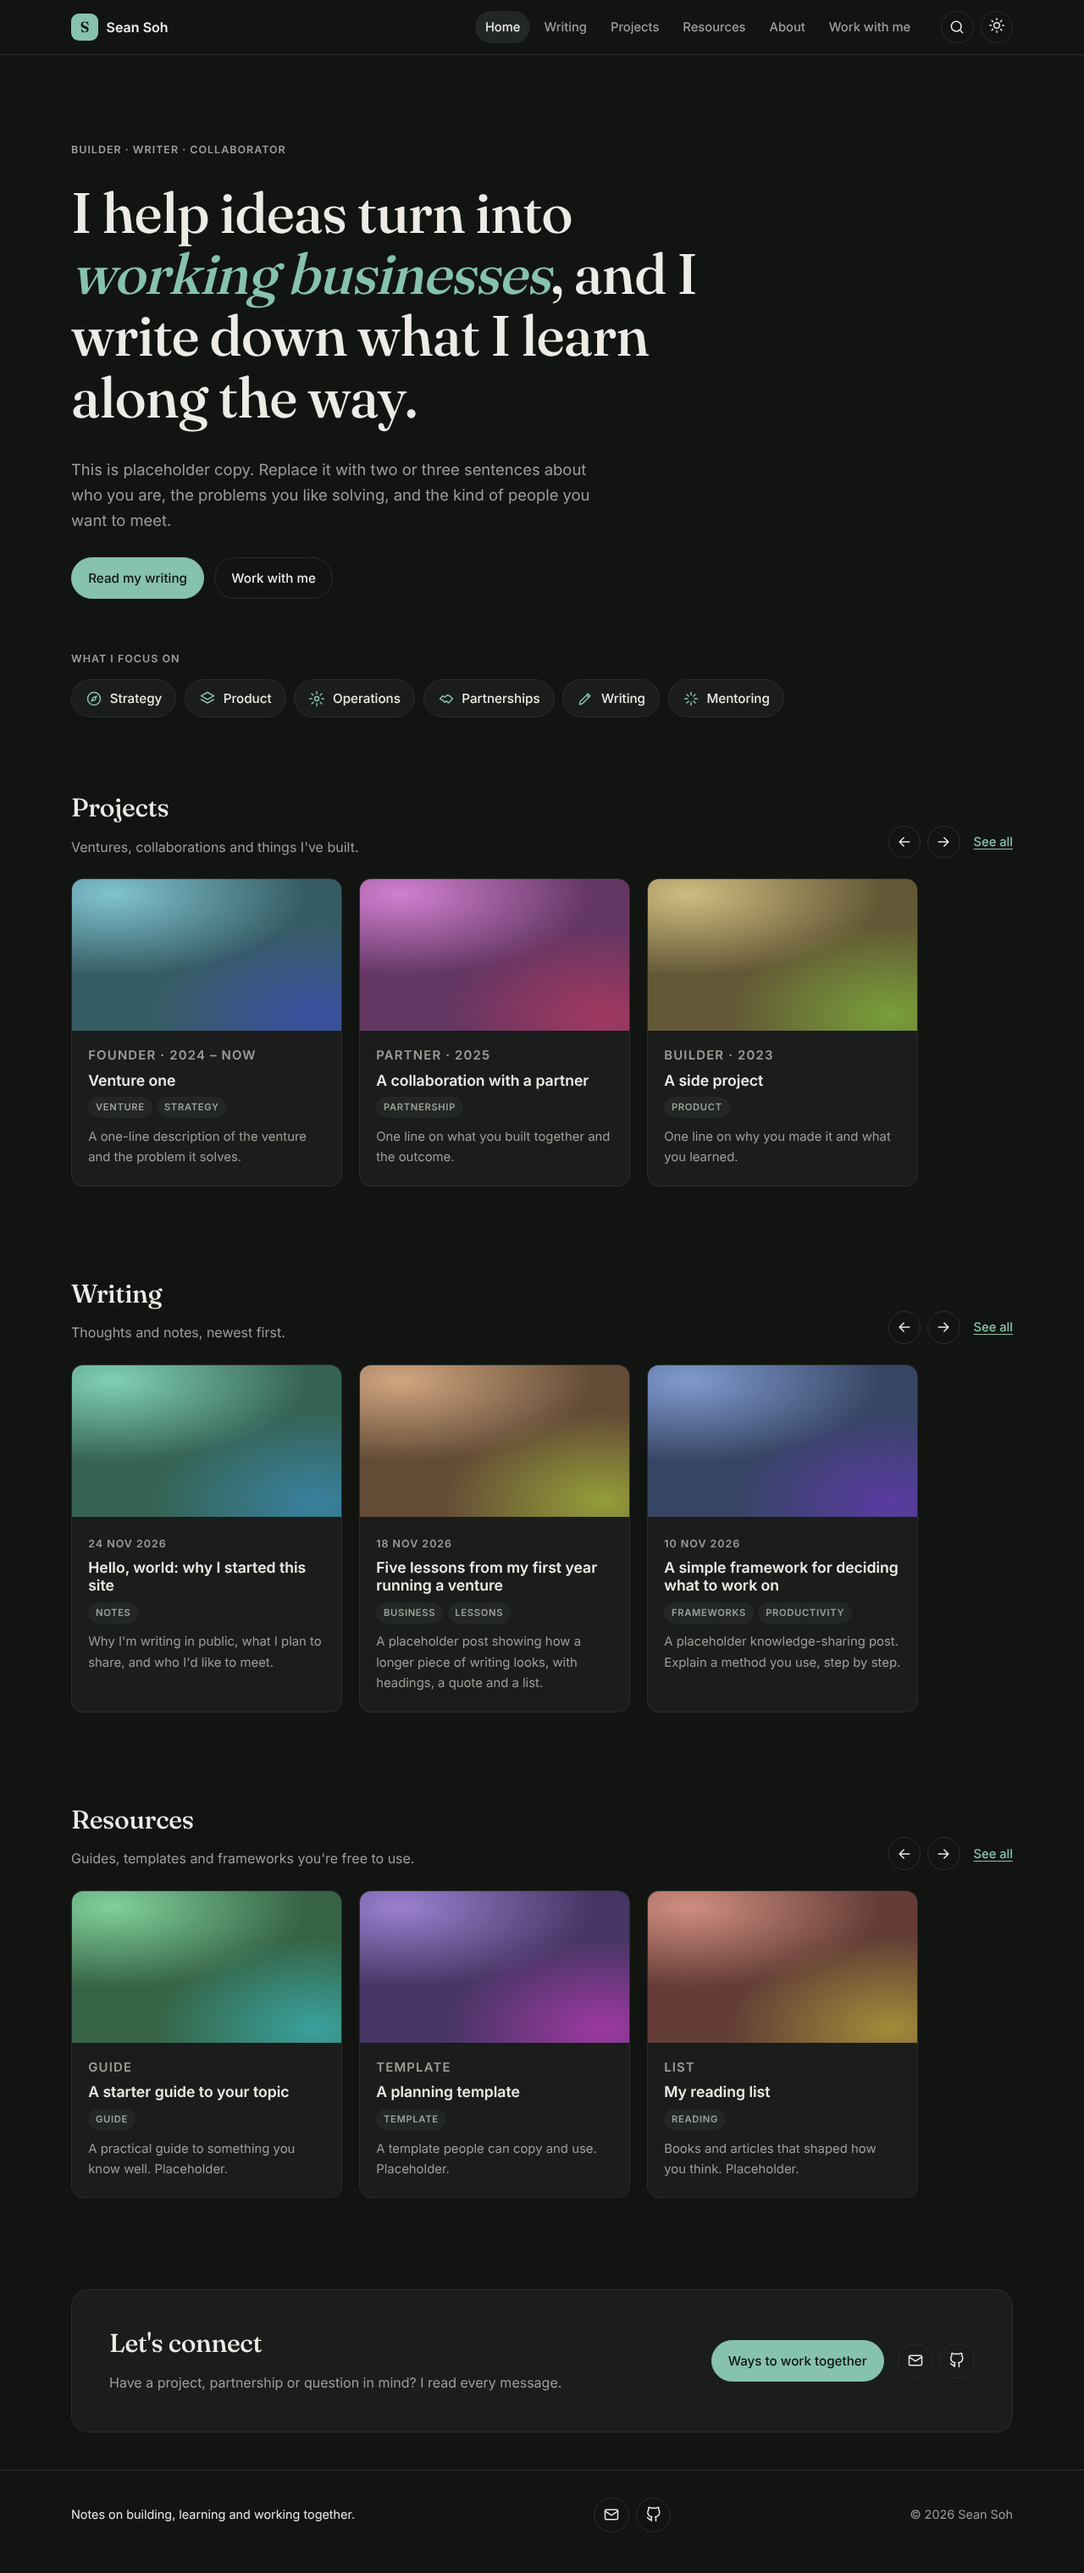
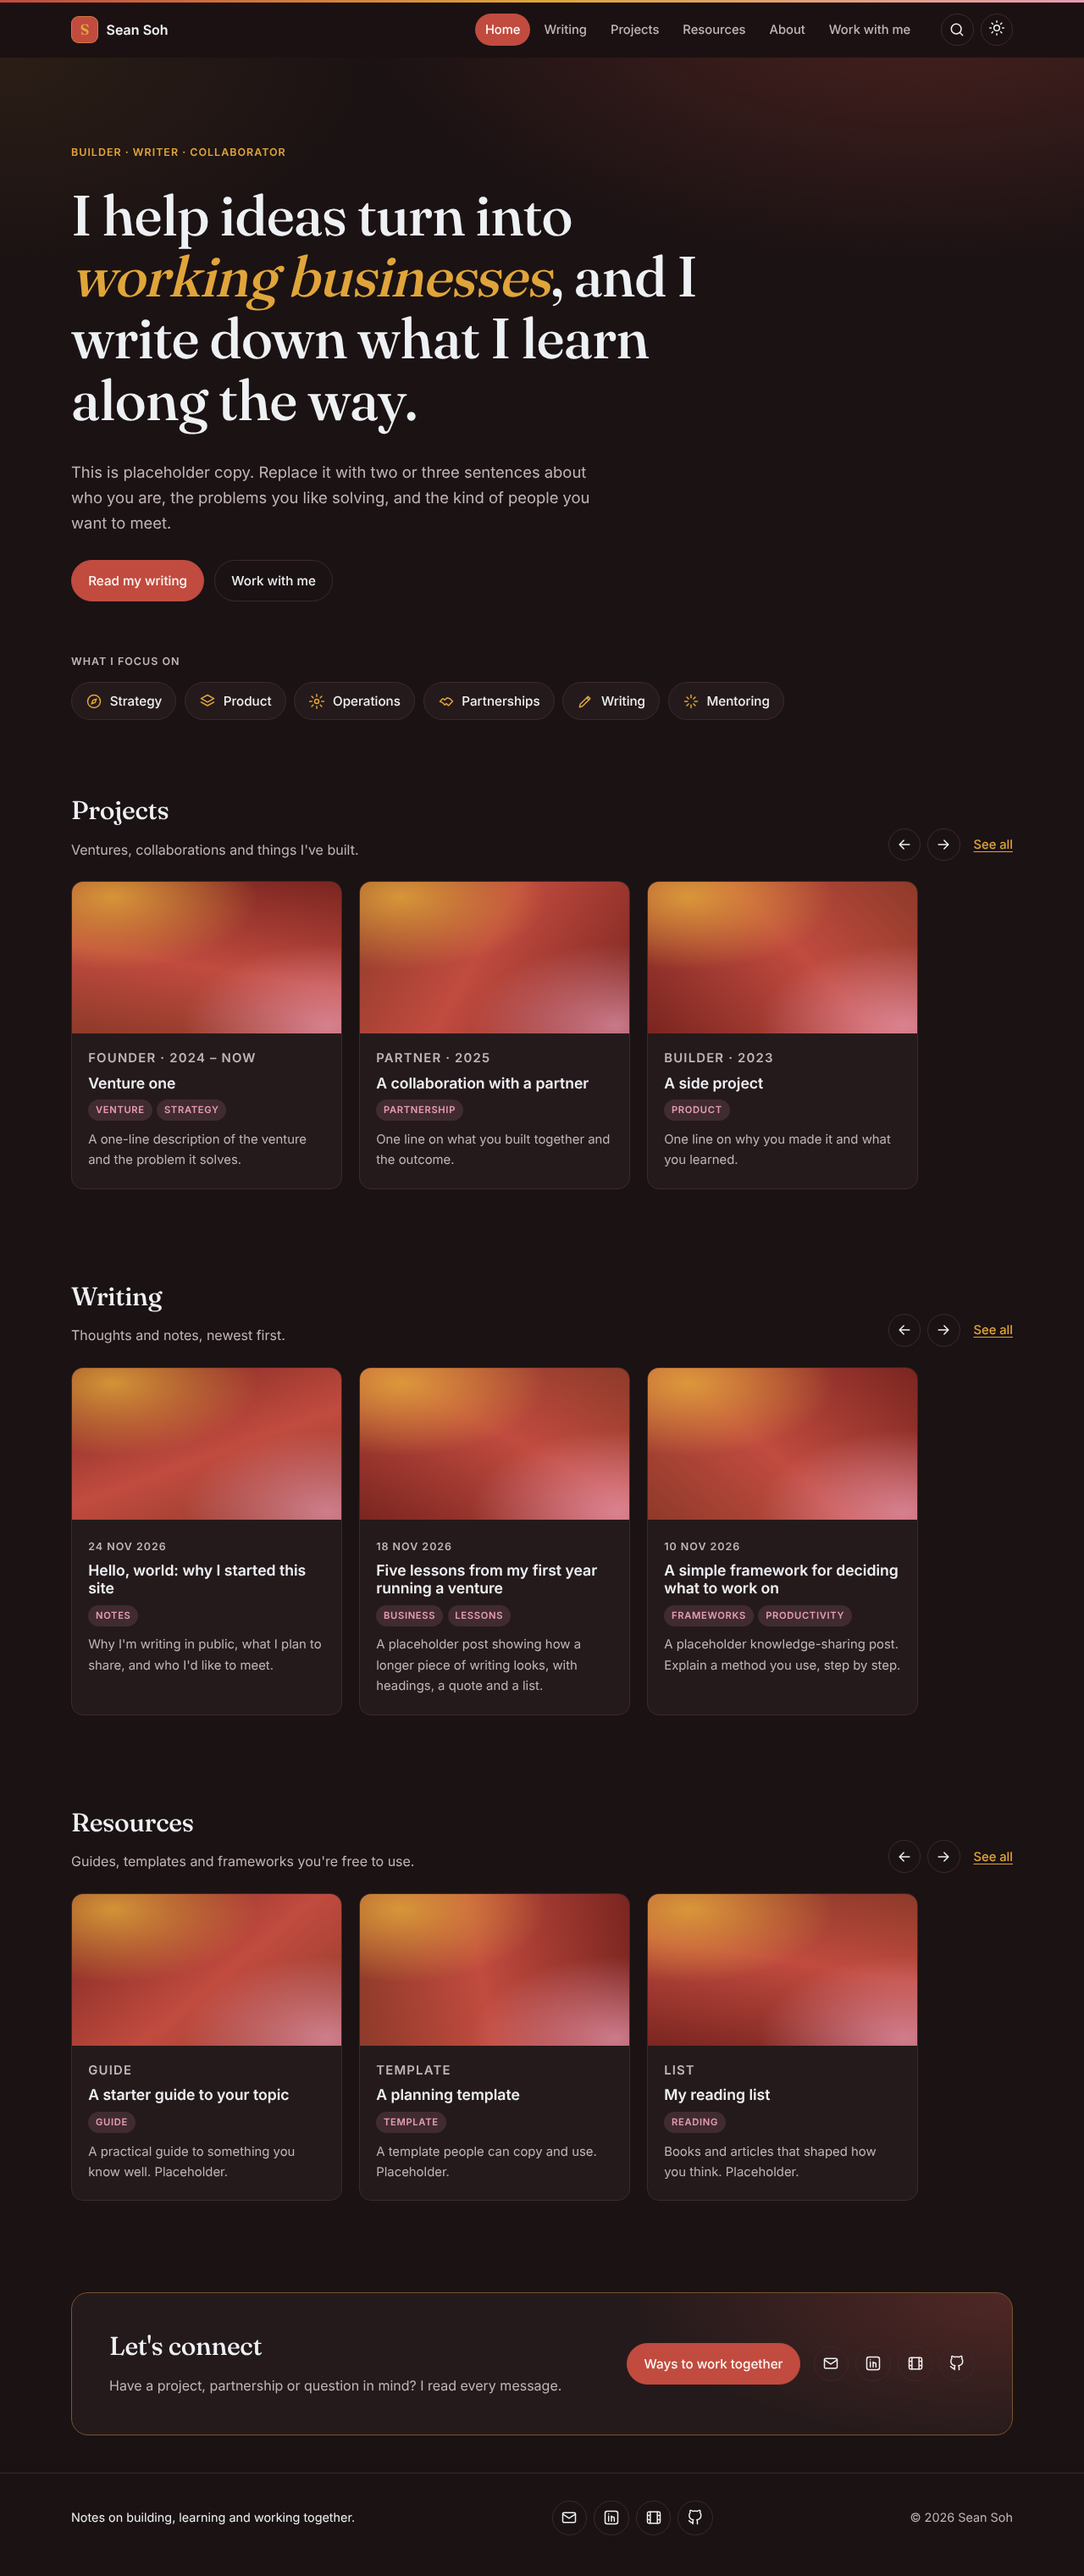
Restyle with red, gold, soft pink and pearl palette on a warm dark theme
Claude-Session: https://claude.ai/code/session_019aZhk6nqUmGebBMtB7amnR

diff --git a/assets/style.css b/assets/style.css
@@ -3,37 +3,50 @@
    Colors and sizes live in the tokens below. Change them here first.
    ========================================================================== */
 
+/* Palette: Red (lucky, primary), Gold (support), Soft Pink (identity),
+   Pearl White (main text). Backgrounds are a warm red-black, not flat black. */
 :root {
-  --bg: #fbfaf7;
-  --surface: #ffffff;
-  --text: #1b1c1a;
-  --muted: #676863;
-  --accent: #2f5d50;
-  --accent-text: #fbfaf7;
-  --border: #e4e2dc;
-  --chip: #efede7;
-  --shadow: 0 1px 2px rgb(0 0 0 / .04), 0 8px 24px rgb(0 0 0 / .06);
+  --red: #c14b3f;
+  --gold: #e0a53a;
+  --pink: #e79bb4;
+  --pearl: #eef1f4;
+
+  --bg: #1b1213;
+  --surface: #251a1b;
+  --text: var(--pearl);
+  --muted: #c2b5b6;
+  --accent: var(--red);          /* buttons, active states, brand */
+  --accent-text: #fff8f3;
+  --link: var(--gold);           /* links, icons, highlights */
+  --highlight: var(--pink);      /* tags, small identity touches */
+  --border: #3b2a2b;
+  --chip: #312324;
+  --glow: rgb(193 75 63 / .28);
+  --shadow: 0 1px 2px rgb(0 0 0 / .3), 0 10px 30px rgb(0 0 0 / .35);
+
   --max: 72rem;
   --narrow: 44rem;
   --gutter: 1.25rem;
   --radius: 14px;
   --font-body: "Inter", system-ui, -apple-system, "Segoe UI", sans-serif;
   --font-display: "Fraunces", Georgia, "Times New Roman", serif;
-  color-scheme: light;
-}
-@media (prefers-color-scheme: dark) {
-  :root:not([data-theme="light"]) {
-    --bg: #121412; --surface: #1a1d1b; --text: #ecebe6; --muted: #9d9e98;
-    --accent: #86c2ae; --accent-text: #0f1211; --border: #2a2e2b; --chip: #232724;
-    --shadow: 0 1px 2px rgb(0 0 0 / .3), 0 8px 24px rgb(0 0 0 / .25);
-    color-scheme: dark;
-  }
-}
-:root[data-theme="dark"] {
-  --bg: #121412; --surface: #1a1d1b; --text: #ecebe6; --muted: #9d9e98;
-  --accent: #86c2ae; --accent-text: #0f1211; --border: #2a2e2b; --chip: #232724;
-  --shadow: 0 1px 2px rgb(0 0 0 / .3), 0 8px 24px rgb(0 0 0 / .25);
   color-scheme: dark;
+}
+/* Optional light version, only when the visitor picks it with the toggle. */
+:root[data-theme="light"] {
+  --bg: #faf6f2;
+  --surface: #ffffff;
+  --text: #2a1a1b;
+  --muted: #6e5d5e;
+  --accent: #b3402f;
+  --accent-text: #fff8f3;
+  --link: #a3361f;
+  --highlight: #a8466c;
+  --border: #ecdcd6;
+  --chip: #f6e9e4;
+  --glow: rgb(224 165 58 / .22);
+  --shadow: 0 1px 2px rgb(0 0 0 / .04), 0 8px 24px rgb(90 30 20 / .08);
+  color-scheme: light;
 }
 
 /* Base ------------------------------------------------------------------ */
@@ -45,7 +58,7 @@ body {
   -webkit-font-smoothing: antialiased;
 }
 img { max-width: 100%; display: block; }
-a { color: var(--accent); text-underline-offset: .2em; }
+a { color: var(--link); text-underline-offset: .2em; }
 h1, h2, h3 { line-height: 1.2; margin: 0 0 .5em; font-weight: 600; }
 h1, h2, .display { font-family: var(--font-display); font-weight: 500; letter-spacing: -.01em; }
 h2 { font-size: clamp(1.5rem, 1.2rem + 1vw, 1.9rem); }
@@ -56,20 +69,17 @@ p { margin: 0 0 1em; }
 .narrow { max-width: var(--narrow); }
 .skip { position: absolute; left: -999px; }
 .skip:focus { left: 1rem; top: 1rem; z-index: 100; background: var(--surface); padding: .5rem 1rem; }
-:focus-visible { outline: 2px solid var(--accent); outline-offset: 2px; border-radius: 4px; }
-.only-dark { display: none; }
-[data-theme="dark"] .only-dark { display: inline; }
-[data-theme="dark"] .only-light { display: none; }
-@media (prefers-color-scheme: dark) {
-  :root:not([data-theme="light"]) .only-dark { display: inline; }
-  :root:not([data-theme="light"]) .only-light { display: none; }
-}
+:focus-visible { outline: 2px solid var(--link); outline-offset: 2px; border-radius: 4px; }
+.only-light { display: none; }
+[data-theme="light"] .only-light { display: inline; }
+[data-theme="light"] .only-dark { display: none; }
 
 .eyebrow, .label, .meta {
   font-size: .78rem; font-weight: 600; text-transform: uppercase; letter-spacing: .08em; color: var(--muted);
 }
 .eyebrow a { color: inherit; text-decoration: none; }
-.eyebrow a:hover { color: var(--accent); }
+.eyebrow a:hover { color: var(--link); }
+.hero .eyebrow { color: var(--link); }
 .lede { font-size: 1.15rem; color: var(--muted); max-width: 40rem; }
 
 /* Buttons --------------------------------------------------------------- */
@@ -81,12 +91,12 @@ p { margin: 0 0 1em; }
 }
 .button:hover { opacity: .88; }
 .button.ghost { background: transparent; color: var(--text); border-color: var(--border); }
-.button.ghost:hover { border-color: var(--text); opacity: 1; }
+.button.ghost:hover { border-color: var(--link); color: var(--link); opacity: 1; }
 .icon-btn {
   display: inline-grid; place-items: center; width: 2.4rem; height: 2.4rem; padding: 0;
   border: 1px solid var(--border); border-radius: 999px; background: transparent; color: var(--text); cursor: pointer;
 }
-.icon-btn:hover { border-color: var(--text); }
+.icon-btn:hover { border-color: var(--link); color: var(--link); }
 .icon { flex: none; }
 
 /* Header ---------------------------------------------------------------- */
@@ -95,19 +105,22 @@ p { margin: 0 0 1em; }
   background: color-mix(in srgb, var(--bg) 85%, transparent);
   backdrop-filter: saturate(1.4) blur(12px); -webkit-backdrop-filter: saturate(1.4) blur(12px);
   border-bottom: 1px solid var(--border);
+  border-top: 3px solid transparent;
+  border-image: linear-gradient(90deg, var(--red), var(--gold), var(--pink)) 1 0 0 0;
 }
 .header-inner { display: flex; align-items: center; gap: 1.5rem; height: 4rem; }
 .brand { display: flex; align-items: center; gap: .6rem; color: var(--text); text-decoration: none; font-weight: 600; }
 .brand-mark {
   display: grid; place-items: center; width: 2rem; height: 2rem; border-radius: 9px;
-  background: var(--accent); color: var(--accent-text); font-family: var(--font-display); font-size: 1.1rem;
+  background: var(--accent); color: var(--gold); font-family: var(--font-display); font-size: 1.1rem;
+  box-shadow: inset 0 0 0 1px rgb(224 165 58 / .5);
 }
 .site-nav { display: flex; gap: .25rem; margin-left: auto; }
 .site-nav a {
   padding: .4rem .75rem; border-radius: 999px; color: var(--muted); text-decoration: none; font-size: .92rem; font-weight: 500;
 }
-.site-nav a:hover { color: var(--text); }
-.site-nav a[aria-current="page"] { color: var(--text); background: var(--chip); }
+.site-nav a:hover { color: var(--link); }
+.site-nav a[aria-current="page"] { color: var(--accent-text); background: var(--accent); }
 .header-tools { display: flex; gap: .5rem; }
 .nav-toggle { display: none; }
 
@@ -123,9 +136,14 @@ p { margin: 0 0 1em; }
 }
 
 /* Hero ------------------------------------------------------------------ */
-.hero { padding: clamp(3.5rem, 8vw, 7rem) 0 clamp(2.5rem, 5vw, 4rem); }
+.hero {
+  padding: clamp(3.5rem, 8vw, 7rem) 0 clamp(2.5rem, 5vw, 4rem);
+  background:
+    radial-gradient(60rem 28rem at 85% -10%, var(--glow), transparent 70%),
+    radial-gradient(40rem 22rem at 0% 0%, rgb(224 165 58 / .08), transparent 70%);
+}
 .display { font-size: clamp(2.2rem, 1.4rem + 3.6vw, 4.2rem); line-height: 1.08; max-width: 18ch; margin: .4em 0 .5em; }
-.display em { font-style: italic; color: var(--accent); }
+.display em { font-style: italic; color: var(--link); }
 .actions { display: flex; flex-wrap: wrap; gap: .75rem; margin-top: 1.75rem; }
 
 /* Sections -------------------------------------------------------------- */
@@ -142,7 +160,7 @@ p { margin: 0 0 1em; }
   display: flex; align-items: center; gap: .55rem; padding: .55rem 1rem;
   border: 1px solid var(--border); border-radius: 999px; background: var(--surface); font-weight: 500; font-size: .95rem;
 }
-.focus-list .icon { color: var(--accent); }
+.focus-list .icon { color: var(--link); }
 
 /* Card rails (horizontal scroll with snap) ------------------------------ */
 .rail {
@@ -158,7 +176,7 @@ p { margin: 0 0 1em; }
   background: var(--surface); border: 1px solid var(--border); border-radius: var(--radius);
   overflow: hidden; transition: transform .2s, box-shadow .2s;
 }
-.card:hover { transform: translateY(-3px); box-shadow: var(--shadow); }
+.card:hover { transform: translateY(-3px); box-shadow: var(--shadow); border-color: color-mix(in srgb, var(--gold) 45%, var(--border)); }
 .card-link { display: flex; flex-direction: column; height: 100%; color: inherit; text-decoration: none; }
 .card-body { padding: 1.1rem 1.2rem 1.3rem; }
 .card-body h3 { margin: .35rem 0 .6rem; font-size: 1.1rem; }
@@ -167,18 +185,20 @@ p { margin: 0 0 1em; }
 
 .cover { aspect-ratio: 16 / 9; background: var(--chip); overflow: hidden; border-radius: 0; }
 .cover img { width: 100%; height: 100%; object-fit: cover; }
+/* Generated covers mix the palette; `hue` in front matter (0-360) rotates the blend. */
 .cover-gen {
   background:
-    radial-gradient(120% 90% at 15% 10%, hsl(var(--hue) 55% 70% / .9), transparent 60%),
-    radial-gradient(100% 100% at 90% 90%, hsl(calc(var(--hue) + 40) 50% 45% / .85), transparent 60%),
-    hsl(var(--hue) 30% 30%);
+    radial-gradient(90% 80% at 15% 10%, rgb(224 165 58 / .85), transparent 60%),
+    radial-gradient(90% 90% at 95% 95%, rgb(231 155 180 / .7), transparent 60%),
+    linear-gradient(calc(var(--hue) * 1deg), #7a2520, var(--red) 55%, #8e3a2a);
 }
 .page > .cover { border-radius: var(--radius); margin: 0 0 2rem; }
 
 .tags { list-style: none; display: flex; flex-wrap: wrap; gap: .35rem; margin: 0; padding: 0; }
 .tags li, .tags a {
   font-size: .7rem; font-weight: 600; text-transform: uppercase; letter-spacing: .06em;
-  padding: .2rem .55rem; border-radius: 999px; background: var(--chip); color: var(--muted); text-decoration: none;
+  padding: .2rem .55rem; border-radius: 999px; text-decoration: none;
+  background: color-mix(in srgb, var(--highlight) 14%, transparent); color: var(--highlight);
 }
 .tags li:has(a) { padding: 0; background: none; }
 
@@ -191,7 +211,8 @@ p { margin: 0 0 1em; }
   padding: .4rem .85rem; border-radius: 999px; border: 1px solid var(--border); background: transparent; color: var(--text);
 }
 .chip span { color: var(--muted); margin-left: .2rem; }
-.chip[aria-pressed="true"] { background: var(--text); color: var(--bg); border-color: var(--text); }
+.chip:hover { border-color: var(--link); }
+.chip[aria-pressed="true"] { background: var(--accent); color: var(--accent-text); border-color: var(--accent); }
 .chip[aria-pressed="true"] span { color: inherit; opacity: .7; }
 
 /* Pages and prose ------------------------------------------------------- */
@@ -203,7 +224,7 @@ p { margin: 0 0 1em; }
 .prose h2 { margin-top: 2.2em; }
 .prose h3 { margin-top: 1.6em; }
 .prose blockquote {
-  margin: 1.5em 0; padding: .2em 0 .2em 1.2em; border-left: 3px solid var(--accent);
+  margin: 1.5em 0; padding: .2em 0 .2em 1.2em; border-left: 3px solid var(--red);
   font-family: var(--font-display); font-size: 1.25rem; color: var(--text);
 }
 .prose code { font-size: .9em; background: var(--chip); padding: .1em .35em; border-radius: 5px; }
@@ -216,23 +237,26 @@ p { margin: 0 0 1em; }
 .post-nav .next { text-align: right; margin-left: auto; }
 .post-nav .muted { font-size: .8rem; text-transform: uppercase; letter-spacing: .06em; }
 
-.cta {
-  margin-top: 3.5rem; padding: 2rem; border-radius: var(--radius);
-  background: var(--surface); border: 1px solid var(--border);
+.cta, .connect {
+  background:
+    radial-gradient(40rem 16rem at 100% 0%, var(--glow), transparent 70%),
+    var(--surface);
+  border: 1px solid color-mix(in srgb, var(--gold) 35%, var(--border));
 }
+.cta { margin-top: 3.5rem; padding: 2rem; border-radius: var(--radius); }
 .cta h2 { font-size: 1.5rem; }
 
 .timeline { list-style: none; padding: 0; margin: 1.5rem 0; border-left: 2px solid var(--border); }
 .timeline li { position: relative; padding: 0 0 1.75rem 1.5rem; }
 .timeline li::before {
   content: ""; position: absolute; left: -7px; top: .35rem; width: 12px; height: 12px;
-  border-radius: 50%; background: var(--bg); border: 2px solid var(--accent);
+  border-radius: 50%; background: var(--bg); border: 2px solid var(--link);
 }
 .timeline h3 { margin: .25rem 0 .3rem; }
 .timeline p { color: var(--muted); margin: 0; }
 
 .offer-grid { display: grid; grid-template-columns: repeat(auto-fit, minmax(12rem, 1fr)); gap: 1rem; margin: 0 0 1rem; }
-.offer { padding: 1.25rem; border: 1px solid var(--border); border-radius: var(--radius); background: var(--surface); }
+.offer { padding: 1.25rem; border: 1px solid var(--border); border-top: 3px solid var(--gold); border-radius: var(--radius); background: var(--surface); }
 .offer h3 { margin-top: 0; }
 .offer p { color: var(--muted); font-size: .95rem; margin: 0; }
 
@@ -240,7 +264,6 @@ p { margin: 0 0 1em; }
 .connect {
   display: flex; flex-wrap: wrap; justify-content: space-between; align-items: center; gap: 1.5rem;
   padding: clamp(1.5rem, 4vw, 2.75rem); border-radius: calc(var(--radius) + 6px);
-  background: var(--surface); border: 1px solid var(--border);
 }
 .connect p { margin: 0; }
 .connect-actions { display: flex; flex-wrap: wrap; align-items: center; gap: 1rem; }
@@ -249,7 +272,7 @@ p { margin: 0 0 1em; }
   display: inline-grid; place-items: center; width: 2.6rem; height: 2.6rem; border-radius: 999px;
   border: 1px solid var(--border); color: var(--text);
 }
-.social a:hover { border-color: var(--accent); color: var(--accent); }
+.social a:hover { border-color: var(--link); color: var(--link); }
 
 /* Footer ---------------------------------------------------------------- */
 .site-footer { border-top: 1px solid var(--border); padding: 2rem 0 3rem; font-size: .9rem; }

diff --git a/assets/js/site.js b/assets/js/site.js
@@ -6,8 +6,7 @@
   // Theme toggle ----------------------------------------------------------
   var toggle = document.querySelector('[data-theme-toggle]');
   if (toggle) toggle.addEventListener('click', function () {
-    var current = root.dataset.theme ||
-      (matchMedia('(prefers-color-scheme: dark)').matches ? 'dark' : 'light');
+    var current = root.dataset.theme || 'dark';
     var next = current === 'dark' ? 'light' : 'dark';
     root.dataset.theme = next;
     try { localStorage.setItem('theme', next); } catch (e) {}

diff --git a/_layouts/default.html b/_layouts/default.html
@@ -3,6 +3,7 @@
 <head>
   <meta charset="utf-8">
   <meta name="viewport" content="width=device-width, initial-scale=1">
+  <meta name="theme-color" content="#1b1213">
   {%- assign page_title = page.title | default: site.title -%}
   <title>{% if page.url == "/" %}{{ site.title }}{% else %}{{ page_title }} | {{ site.title }}{% endif %}</title>
   {%- assign desc = page.summary | default: page.description | default: site.description | strip_html | strip_newlines | truncate: 160 -%}
